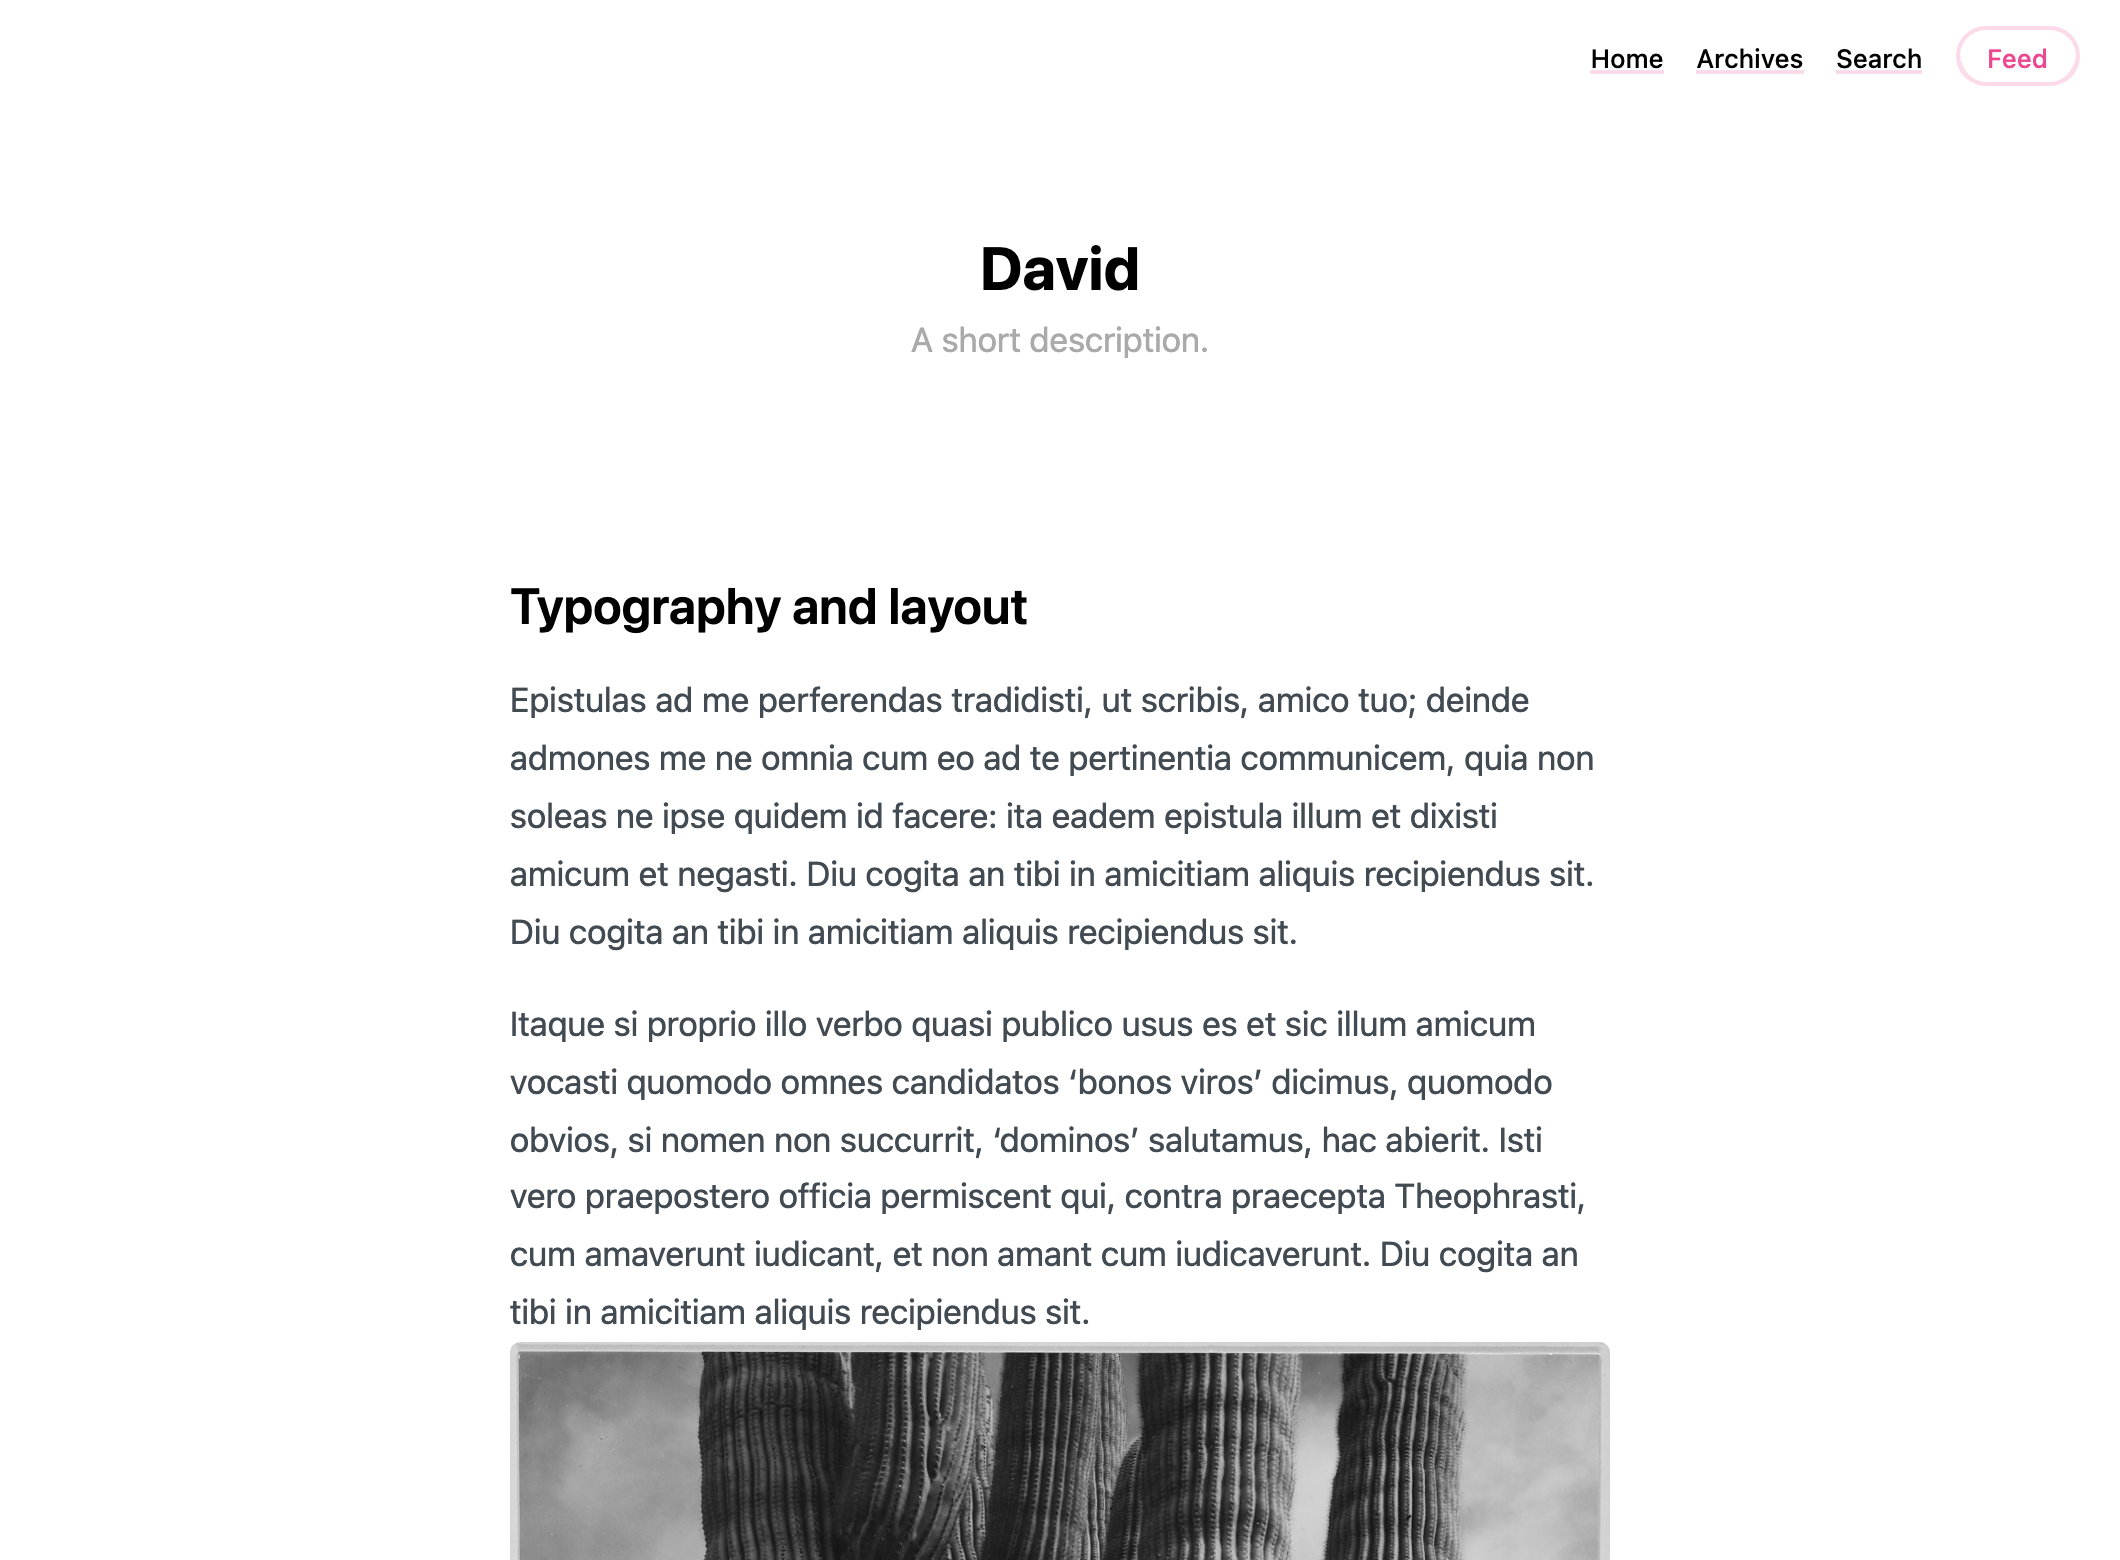
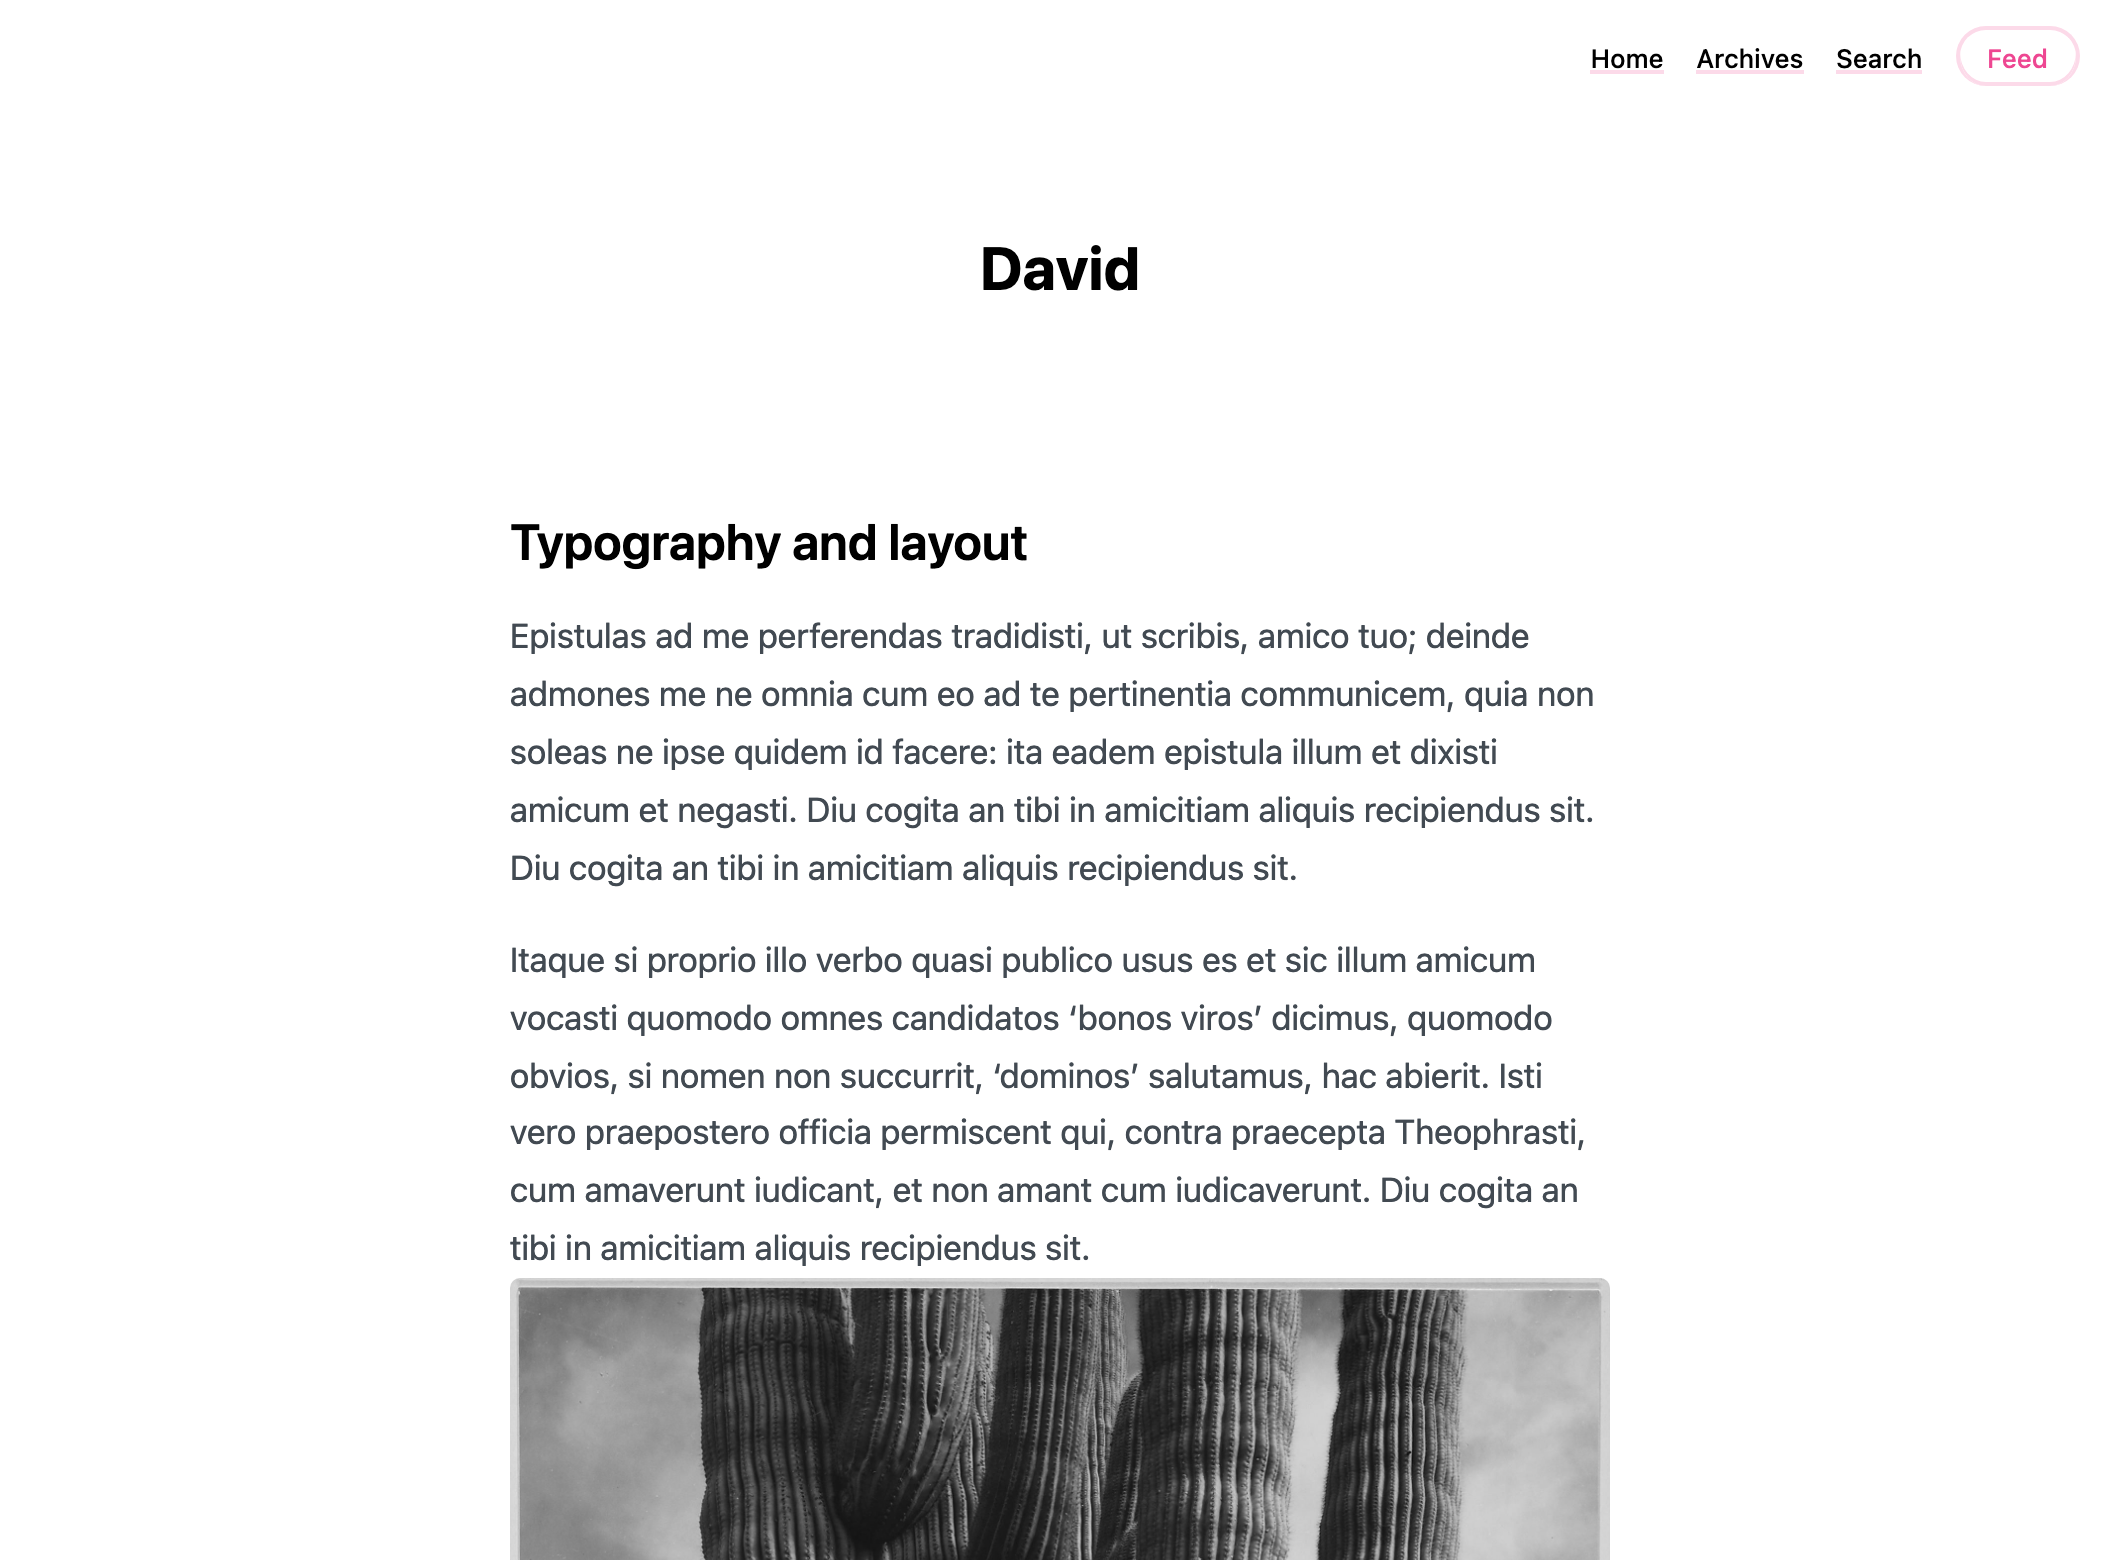
Fix Profile template homepage preview

Changed region(s): [[0.2179, 0.3385, 0.7783, 1.0], [0.4358, 0.2154, 0.5604, 0.2462]]

diff --git a/app/templates/source/profile/entry.html b/app/templates/source/profile/entry.html
@@ -74,14 +74,14 @@
       <header>
         <ul class="h-card p-author author hidden">
           <li>
-            <a class="u-url" href="/about" rel="me"><span class="p-author">{{author}}</span></a>
+            <a class="u-url" href="/" rel="me"><span class="p-name">{{#author}}{{author}}{{/author}}{{^author}}{{title}}{{/author}}</span></a>
           </li>
           {{#avatar}}<li>
             <img class="u-photo" src="{{{avatar}}}" alt="">
       </li>{{/avatar}}
-          <li>
+          {{#email}}<li>
             <a href="mailto:{{email}}" class="u-email" rel="me">{{email}}</a>
-          </li>
+          </li>{{/email}}
         </ul>
         {{{titleTag}}}
         <h2 class="headline">
@@ -99,8 +99,8 @@
       <a href="/">
     {{#avatar}}<img class="avatar" src="{{{avatar}}}">{{/avatar}}
     <div>
-      <span class="dark">{{author}}</span>
-      <span>{{description}}</span>
+      <span class="dark">{{#author}}{{author}}{{/author}}{{^author}}{{title}}{{/author}}</span>
+      {{#description}}<span>{{description}}</span>{{/description}}
     </div>
   </a>
     </section>

diff --git a/app/templates/source/profile/style.css b/app/templates/source/profile/style.css
@@ -400,12 +400,14 @@ html,body,div,span,applet,object,iframe,h1,h2,h3,h4,h5,h6,p,blockquote,pre,a,abb
 /* Base */
 html, body {
   height: 100%;
+  background: #fff;
 }
 
 body {
   font-size: 17px;
   font-family: system-ui, -apple-system, BlinkMacSystemFont, 'Segoe UI', Roboto, Oxygen, Ubuntu, Cantarell, 'Open Sans', 'Helvetica Neue', sans-serif;
   color: #424a52;
+  background: #fff;
   text-rendering: optimizeLegibility;
 }
 

diff --git a/app/templates/source/profile/entries.html b/app/templates/source/profile/entries.html
@@ -37,7 +37,9 @@
 </a>
 {{/avatar}}
 <h1 class="p-name"><a class="u-url" href="/" rel="me">{{title}}</a></h1>
+{{#description}}
 <h4 class="p-role">{{description}}</h4>
+{{/description}}
 </header>
 </section>
 </div>

diff --git a/app/templates/source/profile/README.md b/app/templates/source/profile/README.md
@@ -1,15 +1,5 @@
-# _Marfa_ for Jekyll
+# Profile
 
-#### Demo: [mmarfil.com/micro](http://mmarfil.com/micro)
+A personal site: name, optional photo, and a short bio on the homepage, then posts.
 
-## Screenshot
-
-![screenshot](screenshot/home.png)
-
-This Jekyll theme started as a port of [Cactus](https://github.com/eudicots/Cactus) to my own needs, but I ended up performing a lot more modifications than expected. Some people reached me out and asked if I could share it, so here we are.
-
-#### Disclaimer: I'm only a designer, so please don't expect the code to be pretty.
-
-## Usage
-To start your project, [fork this respository](https://github.com/mmarfil/marfa/fork), put in your content, and go!
-
+Set **Author**, **Description**, **Email**, and **Micro.blog username** in the template settings if you want them shown. Upload a photo on the dashboard for the avatar.
